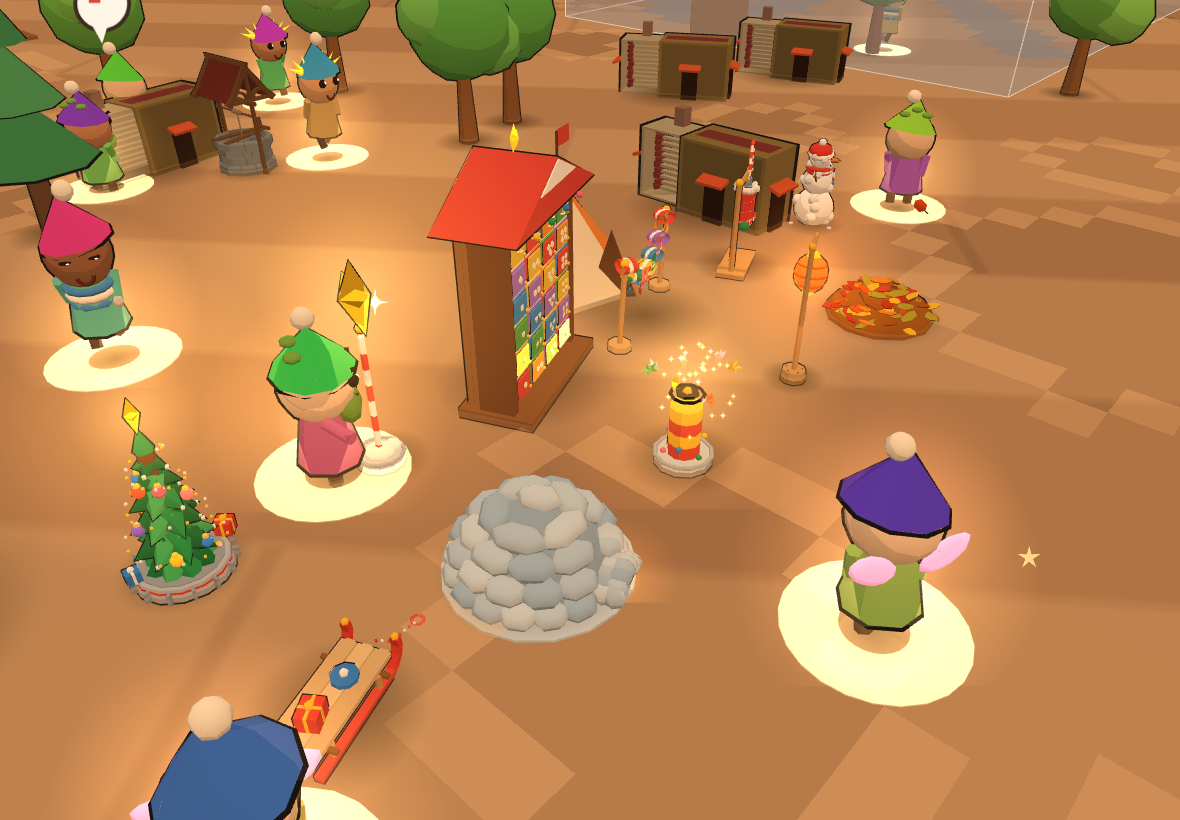
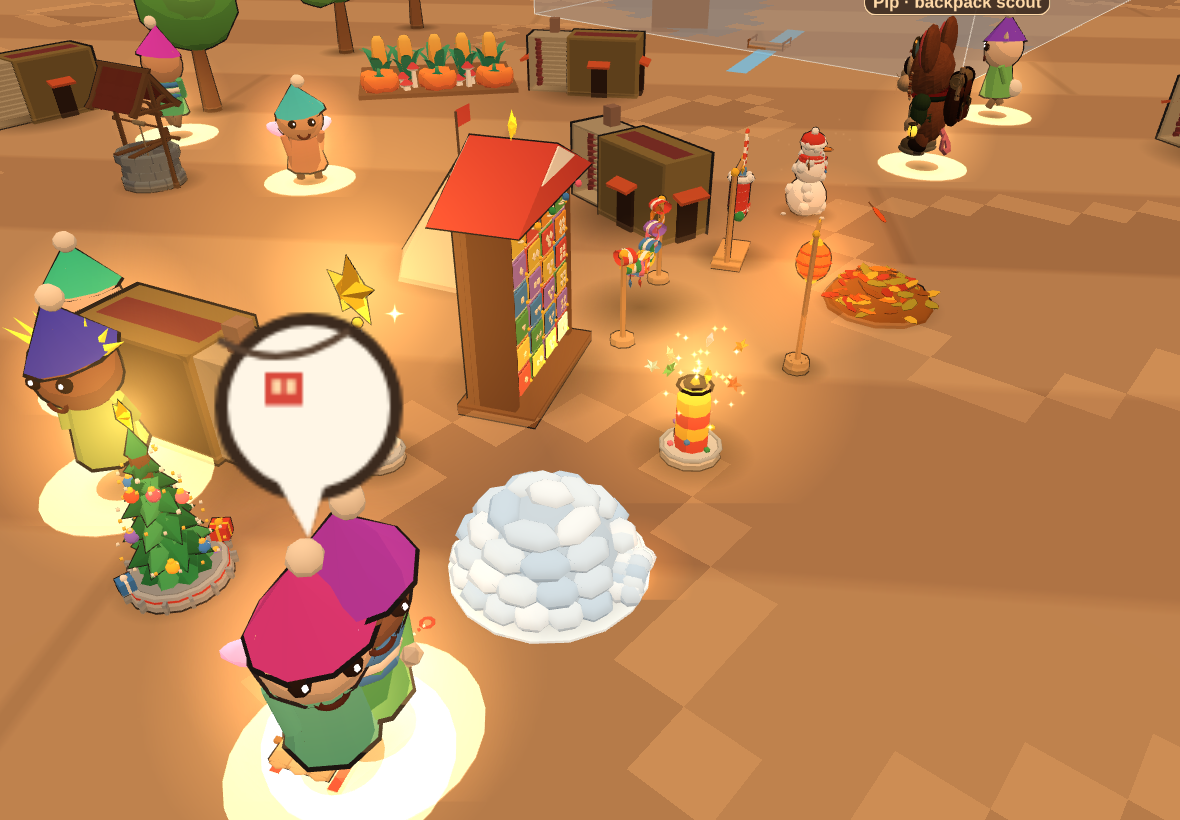
Base Camp decor.js: igloo stays snowy at dusk; shot 62 retaken
Claude-Session: https://claude.ai/code/session_0171oc5wTsPoimaja7RRfUcs

diff --git a/games/base-camp/models/decor.js b/games/base-camp/models/decor.js
@@ -400,7 +400,7 @@
   }
   function igloo() {
     var g = new T.Group(), A = asset('igloo', function () {
-      var p = [], Rd = 0.0215, rows = [[0.16, 17], [0.45, 13], [0.76, 9], [1.08, 5], [1.4, 1]], tints = [0xd2e3f2, 0xbcd3e8, 0xaac6e0, 0xc6dbed], i, j;
+      var p = [], Rd = 0.0215, rows = [[0.16, 17], [0.45, 13], [0.76, 9], [1.08, 5], [1.4, 1]], tints = [0xc8dcee, 0xb2cbe4, 0xa0bddb, 0xbdd4e9], i, j;
       p.push(sph(0x9db6cf, Rd * 0.965, 0, 0, 0, { half: 1, w: 14, h: 8, ink: 1 }));
       p.push(cyl(0xcfe0ef, 0.0268, 0.0268, 0.0008, 0, 0.0004, 0.0008, { w: 18 }));
       rows.forEach(function (rw, ri) {
@@ -416,7 +416,7 @@
       for (i = 0; i < 5; i++) p.push(tcone(0xd7ecf8, 0.0004, 0.0032 + (i % 2) * 0.0014, (i - 2) * 0.0024, 0.0058 - Math.abs(i - 2) * 0.0003, 0.0262, { w: 4, rz: PI }));
       return p;
     }, 0.0005);
-    g.add(meshOf(A));
+    g.add(meshOf(A, glowMat(0x46586c, 0.75))); /* a little self-light so cotton snow stays snowy at dusk */
     var dg = glow(0.016, 0.5, 0xffb060); dg.position.set(0, 0.003, 0.0235); g.add(dg); g.userData.glow = dg; var p0 = ph();
     g.userData.tick = function (t) { dg.material.opacity = 0.42 + 0.14 * Math.sin(t * 3 + p0) + 0.06 * Math.sin(t * 7.3 + p0); };
     return finish(g, 0.028);
